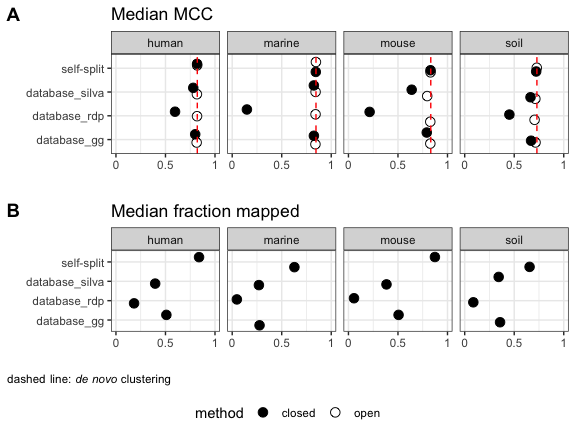
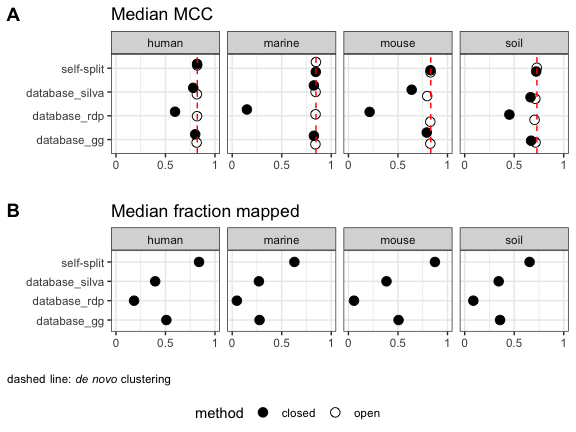
No jitter for fraction mapped plot

diff --git a/exploratory/2021/compare-strategies_2021-05.md b/exploratory/2021/compare-strategies_2021-05.md
@@ -167,8 +167,6 @@ plot_quality <- function(dat, y_val, title = '') {
     ggplot(aes(strategy, {{ y_val }}, 
                #color = method, 
                shape = method)) + 
-    geom_point(size = 3,
-               position = position_jitter(width = 0.3, height = 0)) +
     facet_wrap(dataset ~ ., nrow=1) +
     scale_shape_manual(values = list(open = 1, closed = 19)) +
     #scale_color_manual(values = tri_colors) +
@@ -181,11 +179,14 @@ plot_quality <- function(dat, y_val, title = '') {
 }
 mcc_plot <- sum_optifit %>% 
   plot_quality(mcc_median, title = 'Median MCC') +
+    geom_point(size = 3,
+               position = position_jitter(width = 0.3, height = 0)) +
     geom_hline(data = sum_opticlust, 
                aes(yintercept = mcc_median), 
                linetype = 'dashed', color = 'red')
 frac_plot <- sum_optifit %>% filter(method == 'closed') %>% 
   plot_quality(frac_map_median, title = 'Median fraction mapped')  + 
+    geom_point(size = 3) +
   labs(caption = "dashed line: _de novo_ clustering") +
   theme(plot.caption = element_markdown(hjust = 0),
         plot.caption.position = 'plot')
